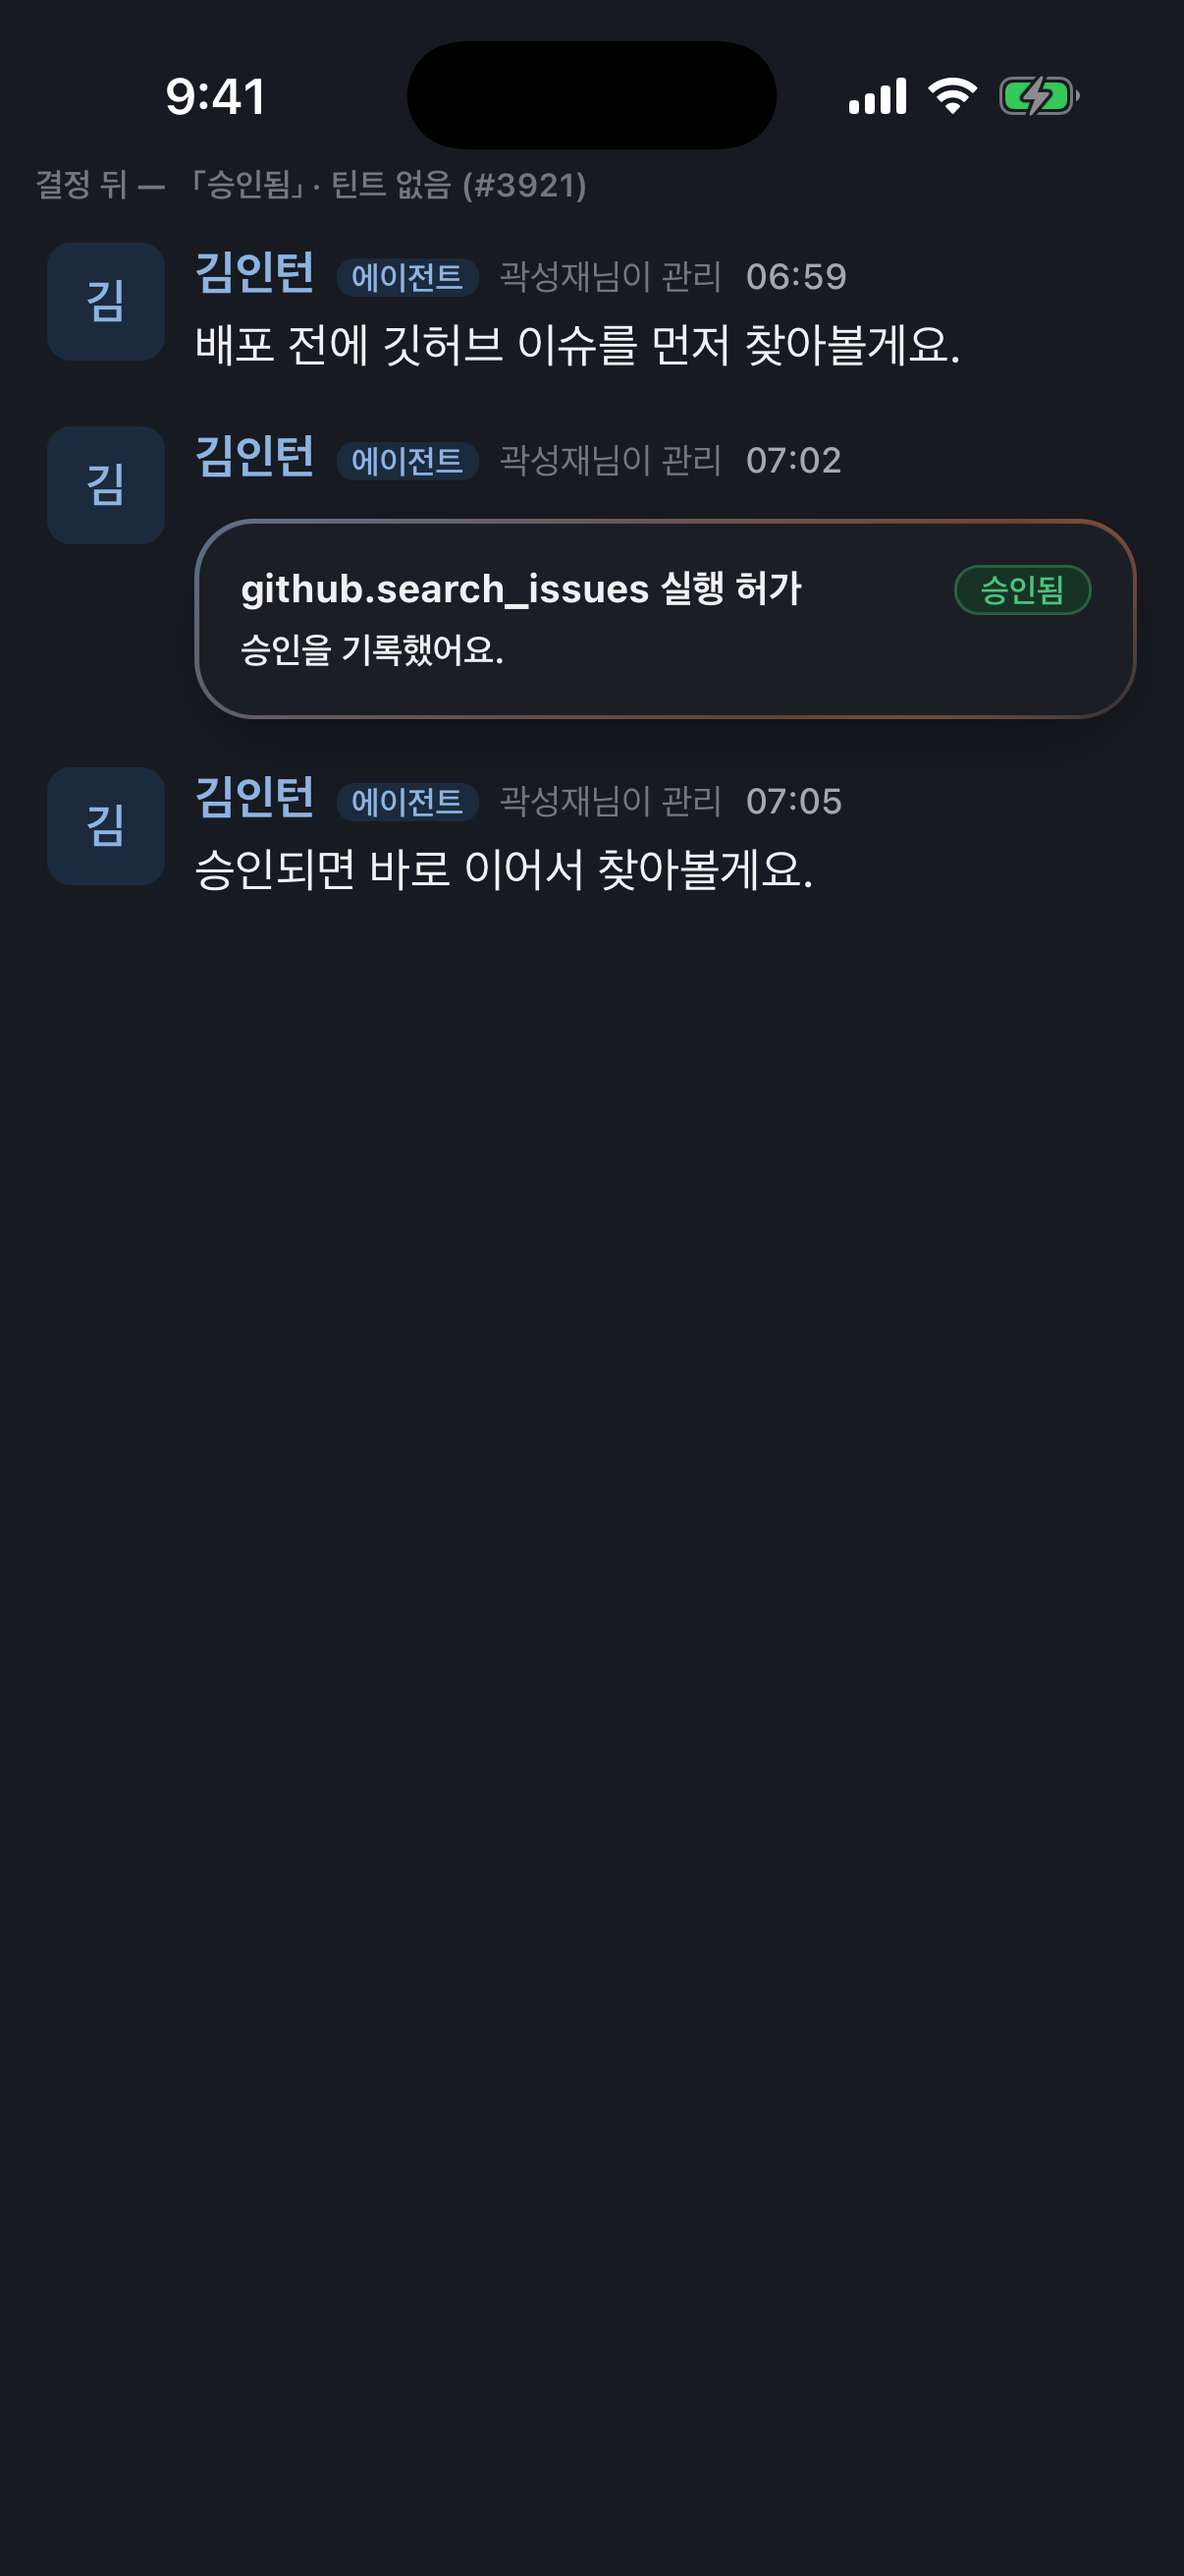
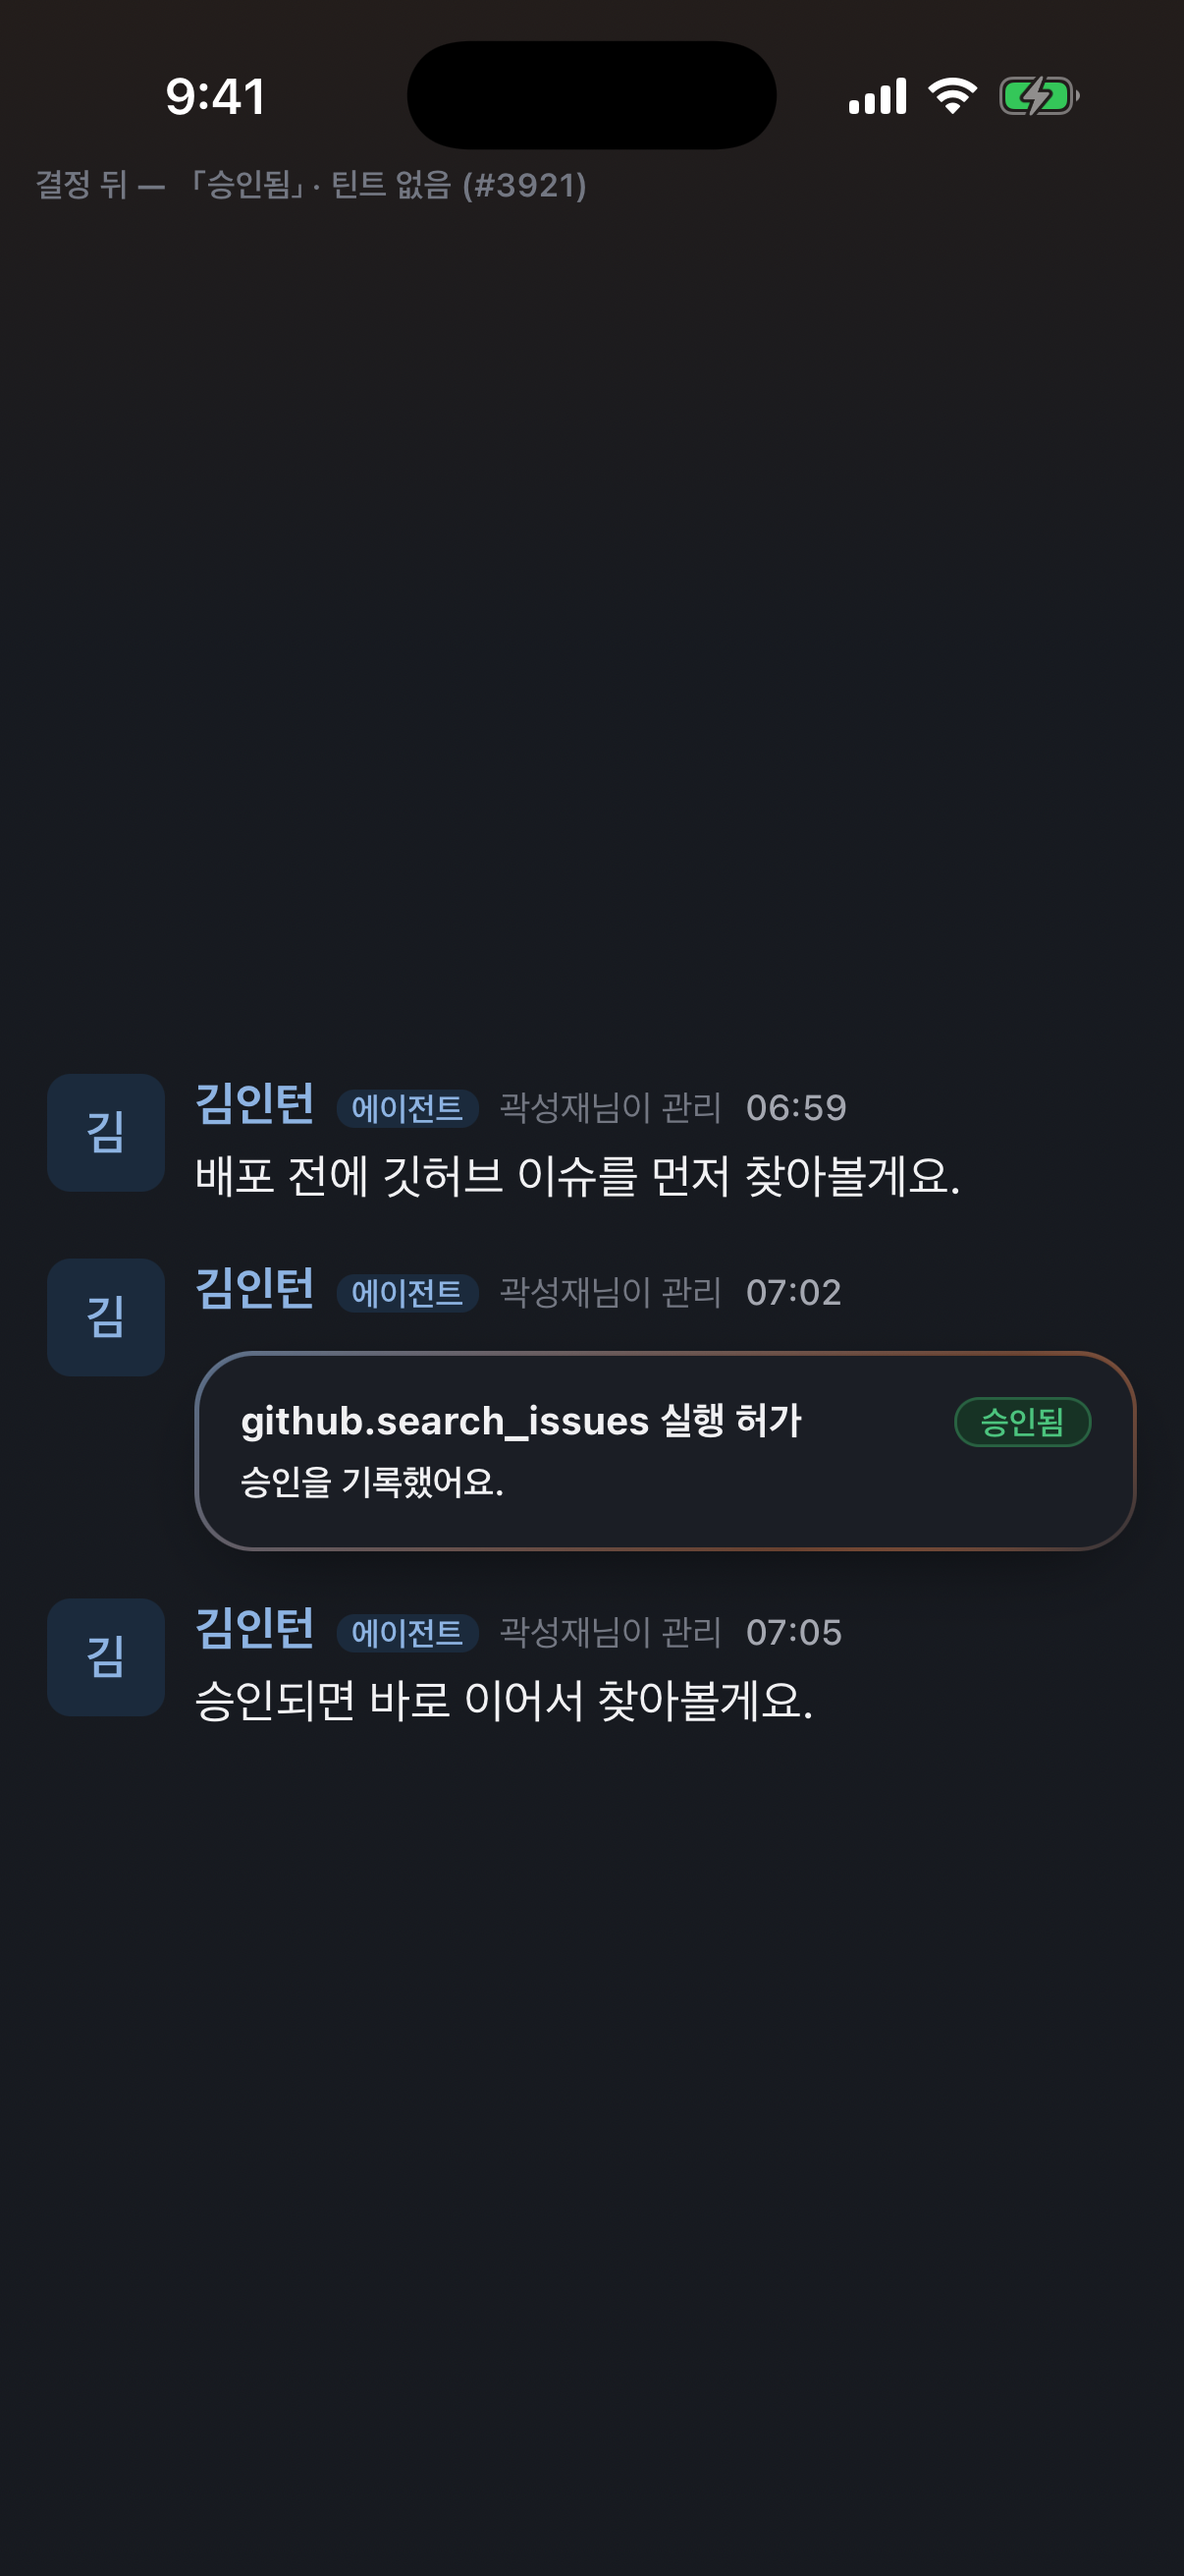
test(mobile): 착지 틴트 캡처를 실제 대화 지면 위에서 다시 찍는다 (#3921)
design-review M1: 하네스 `Frame` 의 바닥은 `color.bg` 라 라이트에서 #EFEDEA 인데,
실제 대화 목록의 바닥은 `surface`(#FFFEFC)다. 같은 틴트(#FFF0DB)가 다른 바닥 위에서
찍혀 사진도, 사진에서 잰 대비도 달랐다(하네스 1.04:1 대 실제 1.11:1, 방향도 반대).

`ConversationFloor` 를 하네스에 더하고 두 표면(`landed3921-arrival|decided`)만 그
위에 세운다. 배경식은 `ConversationScreen` 의 `screen` 과 같은 식(위 25% 에서
`canvasTop` → 라이트 `surface`/다크 `bg`, 그 아래 평평)이고, 행은 점프가 놓는 자리인
화면 가운데에 둔다(`travelToIndex(index, 0.5, …)`) — 평평한 바닥 위다.

사진 속 실제 픽셀로 잰 값(행 대 바닥): 라이트 도착 #FFF0DB 대 #FEFEFC = 1.110:1,
다크 도착 #372E1B 대 #161A20 = 1.305:1, 결정 뒤는 두 테마 모두 1.000:1(틴트 없음).
네 장 모두 교체(다크도 위 그라디언트가 생겨 달라졌다).

Claude-Session: https://claude.ai/code/session_01WgdHaxqQ8yqDue9znxfX9z

diff --git a/clients/mobile/measure/surfaces.tsx b/clients/mobile/measure/surfaces.tsx
@@ -1333,6 +1333,35 @@ function Frame({label, children}: {label: string; children: React.ReactNode}) {
   );
 }
 
+/**
+ * `Frame` 인데 바닥이 **실제 대화 화면의 바닥**이다 (#3921, design-review M1).
+ *
+ * `Frame` 은 `color.bg` 를 깐다. 대화 목록의 바닥은 다크에서 그 값이 맞지만 라이트에서는
+ * `surface` 다(`ConversationScreen` 의 `screen`: 위 25% 에서 `canvasTop` 이 `surface` 로
+ * 건너가는 그라디언트, 그 아래는 평평한 `surface`). 같은 틴트를 다른 바닥 위에서 찍으면
+ * 사진도, 사진에서 잰 대비 숫자도 거짓이 된다 — 라이트 `warnSurface`(#FFF0DB)의 세기는
+ * `bg` 위에서 1.04:1, 실제 지면 `surface` 위에서 1.11:1 이고 **방향도 다르다**.
+ *
+ * 배경식은 `ConversationScreen` 의 `screen` 과 **같은 식**을 옮겼다 — 한쪽을 고치면 이
+ * 틀도 따라가야 사진이 거짓이 되지 않는다. 가운데 정렬은 점프가 행을 놓는 자리다
+ * (`travelToIndex(index, 0.5, …)`: 목록 화면 가운데 → 그라디언트 아래, 평평한 바닥 위).
+ */
+function ConversationFloor({
+  label,
+  children,
+}: {
+  label: string;
+  children: React.ReactNode;
+}) {
+  const styles = useStyles(buildStyles);
+  return (
+    <View style={styles.conversationFloor}>
+      <Text style={styles.label}>{label}</Text>
+      <View style={styles.conversationFloorMid}>{children}</View>
+    </View>
+  );
+}
+
 
 // ---- GC-7 (#2948): 에이전트가 제안한 AI 연결 카드 --------------------------------
 //
@@ -2875,6 +2904,9 @@ export function Surface({name}: {name: string}): React.JSX.Element {
     // 사라졌는지가 논점이라 두 장을 같은 배치로 찍는다. 물러나는 **시간**(이동이 끝난 뒤
     // 2초, 불투명도 240ms)은 사진에 나오지 않는다 — `__tests__/landedHighlight3921.test.tsx`
     // 가 가짜 시계로 잰다. 여기 `landed` 는 목록이 건네는 값을 그대로 건넨 것이다.
+    //
+    // 바닥은 `ConversationFloor` — 실제 대화 화면의 바닥이다. 틴트는 바닥 위의 **상대적인**
+    // 세기라(라이트 `warnSurface` 대 `surface` 1.11:1) 바닥이 다르면 사진이 다른 말을 한다.
     case 'landed3921-arrival':
     case 'landed3921-decided': {
       const decided = name === 'landed3921-decided';
@@ -2911,7 +2943,7 @@ export function Surface({name}: {name: string}): React.JSX.Element {
         ['ap-3921', {note: '승인을 기록했어요.', status: 'approved' as const}],
       ]);
       return (
-        <Frame
+        <ConversationFloor
           label={
             decided
               ? '결정 뒤 — 「승인됨」 · 틴트 없음 (#3921)'
@@ -2941,7 +2973,7 @@ export function Surface({name}: {name: string}): React.JSX.Element {
             chips={[]}
             nowMs={NOW}
           />
-        </Frame>
+        </ConversationFloor>
       );
     }
     // ---- U4-6M (#1103): 아바타 · 문장의 격 · 컴포저 -------------------------
@@ -6223,6 +6255,24 @@ const buildStyles = (color: Palette) => StyleSheet.create({
     // 판에서 어두운 회색 글자가 종이 위에 그대로 서야 캡션이 읽힌다.
     lockedLabel: {fontSize: 12, color: color.textMuted, paddingBottom: 4},
     root: {flex: 1, backgroundColor: color.bg, paddingTop: 56},
+    /**
+     * `ConversationFloor` — `ConversationScreen` 의 `screen` 과 같은 배경식 (#3921).
+     * 이미지 바닥이면 `bg` 한 장, 아니면 위 25% 에서 `canvasTop` 이 (라이트 `surface` ·
+     * 다크 `bg`) 로 건너가고 그 아래는 평평하다.
+     */
+    conversationFloor: {
+      flex: 1,
+      paddingTop: 56,
+      ...(color.backdrop === 'image'
+        ? {backgroundColor: color.bg}
+        : {
+            experimental_backgroundImage: `linear-gradient(180deg, ${color.canvasTop} 0%, ${
+              color.mode === 'light' ? color.surface : color.bg
+            } 25%)`,
+          }),
+    },
+    /** 틀 안에서 행들을 화면 가운데에 놓는다 — 점프가 행을 놓는 자리. */
+    conversationFloorMid: {flex: 1, justifyContent: 'center'},
     /** 제 `Screen` 을 든 화면을 통째로 세울 때 (#1964). */
     fill: {flex: 1, backgroundColor: color.bg},
     /** 그런 화면 아래의 캡션 — 홈 인디케이터를 비켜 선다. */
